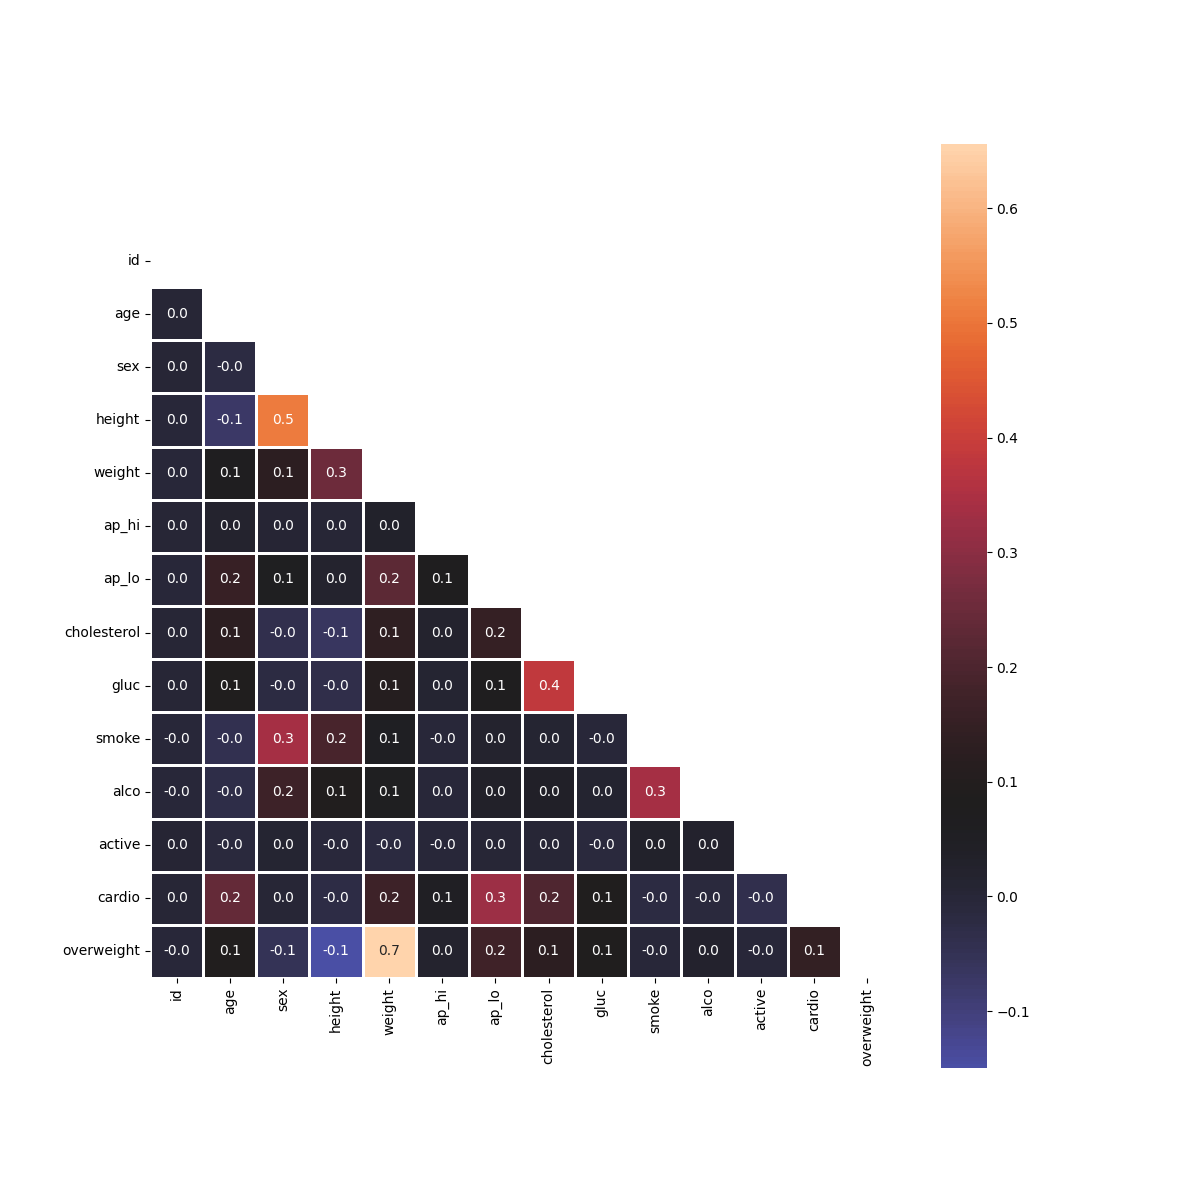
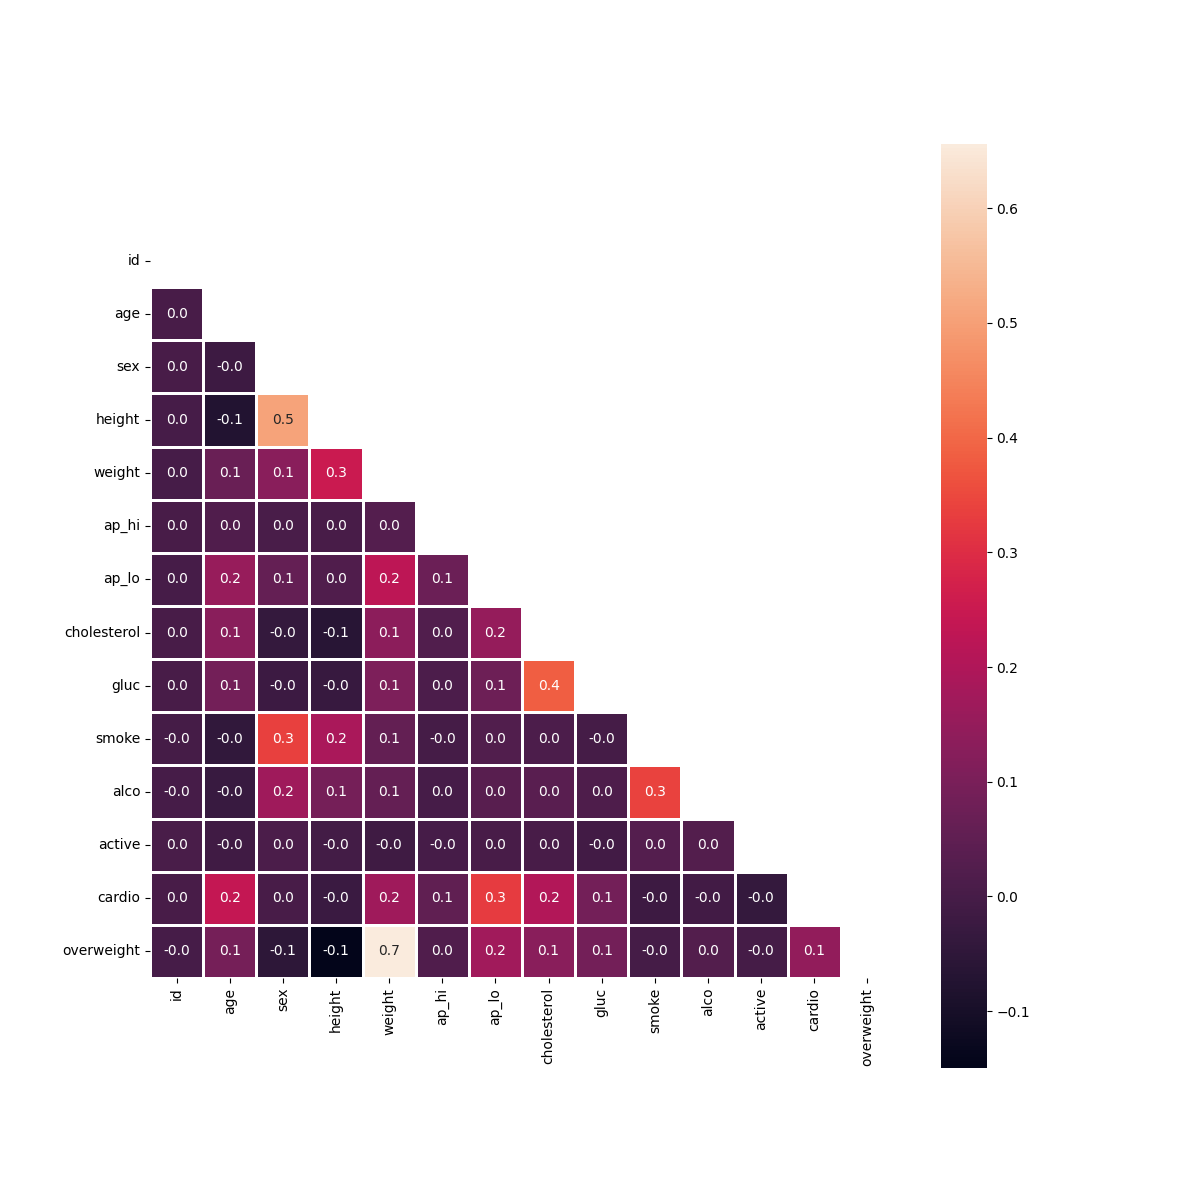
solutions

Changed region(s): [[0.1233, 0.2158, 0.7092, 0.8325], [0.7708, 0.1233, 0.8325, 0.8942]]

diff --git a/medical_data_visualizer.py b/medical_data_visualizer.py
@@ -56,7 +56,7 @@ def draw_heat_map():
     fig, ax = plt.subplots(figsize = (12,12))
 
     # 15
-    sns.heatmap(corr, annot = True, mask = mask, linewidths = 1, square = True, fmt ='.1f', center = 0.08)
+    sns.heatmap(corr, annot = True, mask = mask, linewidths = 1, square = True, fmt ='.1f')
 
 
     # 16
